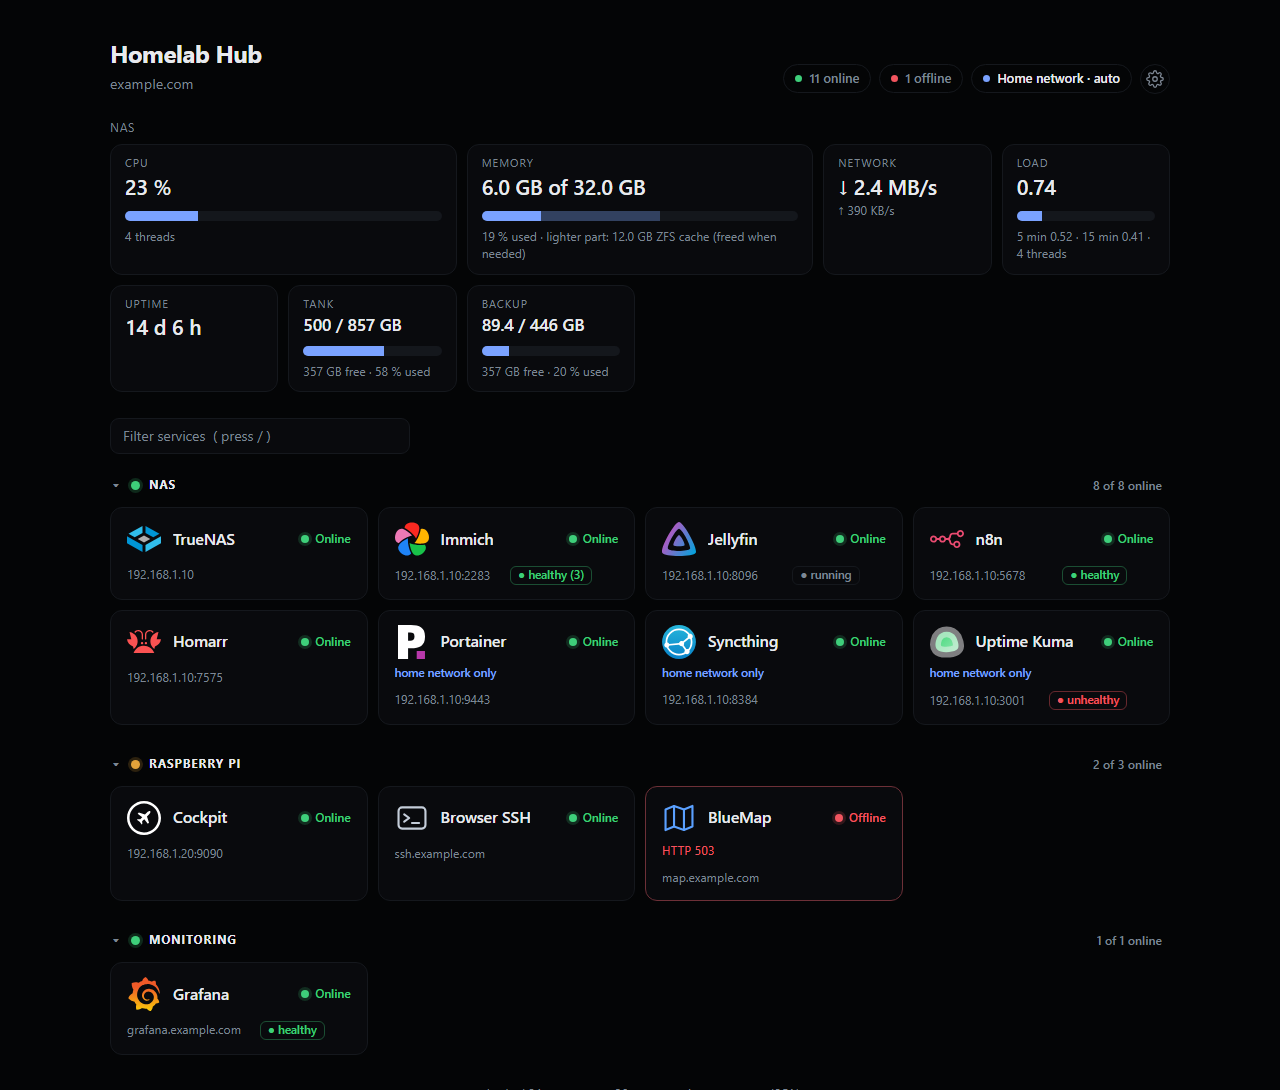
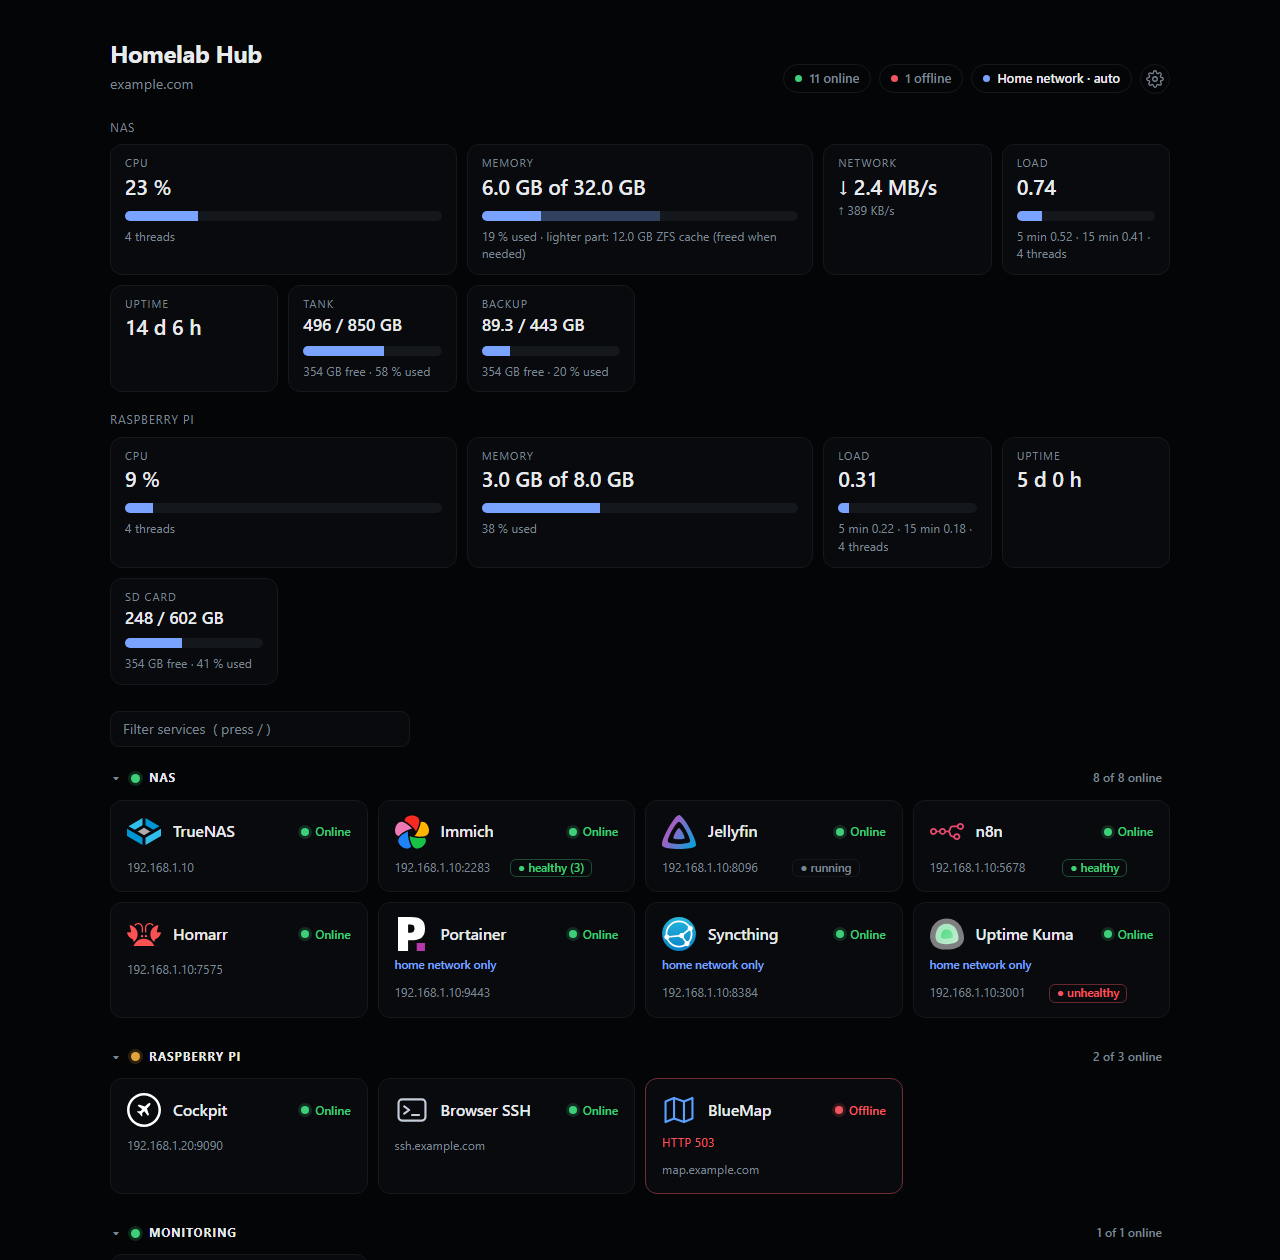
Document stats from other machines, agent compose file, new screenshots

diff --git a/README.md b/README.md
@@ -16,6 +16,7 @@ Everything is configured in **one YAML file**, which you can also edit on the pa
 - **Online checks** over HTTP(S) or plain TCP, done by the server, so open tabs cost nothing
 - **Container health** through a read-only Docker socket proxy
 - **Cards from Docker labels**: label a container and its card appears by itself
+- **Stats from several machines**: the same image runs as a small agent on your other servers
 - **Home network detection**: at home the cards open the LAN address, away the public one
 - **Config editor on the page** (form or plain YAML) with validation; a broken config never takes the page down
 - **Icons by name**: `icon: jellyfin` is fetched once from [dashboard-icons](https://github.com/homarr-labs/dashboard-icons) and kept
@@ -125,6 +126,42 @@ Label cards join the group of the same name from the YAML (a card with the same 
 health of their container, and need the docker-proxy from `compose.yaml`. A label with a mistake is listed under
 `labelErrors` in `/api/containers`. Switch the feature off with `settings.dockerLabels: false`.
 
+## Stats from other machines
+
+The stats tiles at the top show the machine the hub runs on. To add another machine (a Raspberry Pi, a second
+server, a VPS), run the same image there in **agent mode**. An agent has no page and no config; it only answers the
+hub with that machine's numbers.
+
+**On the other machine:** save [compose.agent.yaml](compose.agent.yaml) as `compose.yaml` and run `docker compose up -d`
+(or without Docker: `HUB_MODE=agent PORT=8081 node src/server.js`).
+
+**On the hub**, in the YAML (or gear menu → Edit YAML → *Server stats* → *Other machines*):
+
+```yaml
+stats:
+  name: NAS                             # caption of the hub's own tiles
+  machines:
+    - name: Raspberry Pi
+      url: http://{pi}:8081             # the agent's address; {host} shortcuts work
+      token: a-long-random-text         # only if the agent has AGENT_TOKEN set
+      network: [eth0]                   # optional: cards for the network tile
+      disks:                            # optional: storage tiles, paths as the AGENT sees them
+        - { name: SD card, path: /pools/root, size: 29G }
+```
+
+Each machine gets its own row of tiles under its name. One that does not answer shows why (refused, timed out, wrong
+token) and never holds up the others. The hub asks every `statsIntervalSeconds`.
+
+| Agent variable | Meaning |
+|---|---|
+| `HUB_MODE=agent` | Start as an agent instead of as the hub |
+| `AGENT_TOKEN` | Optional shared secret. Without it, anyone who can reach the port can read the numbers |
+| `PORT`, `PROC_PATH`, `SYS_PATH` | As for the hub |
+
+Things to know: the agent only reports numbers and free space of the paths the hub asks for, nothing else. The token
+is stored in the hub's YAML, so everyone who may open the config editor can read it. Agent addresses and tokens are
+never sent to the page. Use the token, and HTTPS or a VPN, when the agent is reachable from outside your network.
+
 ## Home network: local addresses
 
 Give a service a `local:` address and its card opens that address when you are on the home network.
@@ -195,6 +232,7 @@ Environment variables:
 | `CONFIG_EDITOR` | on | `off` removes the editor |
 | `ICON_DOWNLOAD` | on | `off` never fetches icons |
 | `PUID`, `PGID` | `1000` | Docker only: the user the hub runs as |
+| `HUB_MODE`, `AGENT_TOKEN` | | Agent mode, see "Stats from other machines" |
 
 ## Open it like an app on Windows (taskbar)
 
@@ -225,10 +263,10 @@ hand: right-click the shortcut → **Pin to taskbar**.
 | Path | What |
 |---|---|
 | `config/services.yaml`, `config/starter.yaml` | Full example config; the small one a new install starts with |
-| `src/` | `server.js` (HTTP), `monitor.js` (timer + snapshot), `config.js`, `checks.js`, `docker.js`, `stats.js`, `network.js` (home detection), `auth.js` (login), `icons.js`, `editor.js` (config editor API) |
+| `src/` | `server.js` (HTTP), `monitor.js` (timer + snapshot), `config.js`, `checks.js`, `docker.js`, `stats.js`, `network.js` (home detection), `auth.js` (login), `agent.js` (stats from other machines), `icons.js`, `editor.js` (config editor API) |
 | `public/` | The page: `index.html`, `app.js`, `style.css`, `i18n.js` (translations), `theme.js`, the login page, the config editor, `icons/` |
 | `test/` | `node --test` suites, with fake servers and `/proc` fixtures |
-| `Dockerfile`, `docker-entrypoint.sh`, `compose.yaml` | Docker |
+| `Dockerfile`, `docker-entrypoint.sh`, `compose.yaml`, `compose.agent.yaml` | Docker: the hub, and the agent for other machines |
 | `compose.truenas.yaml`, `scripts/`, `DEPLOY.md` | Building on a TrueNAS box, helper scripts |
 
 ## Contributing, credits, license
